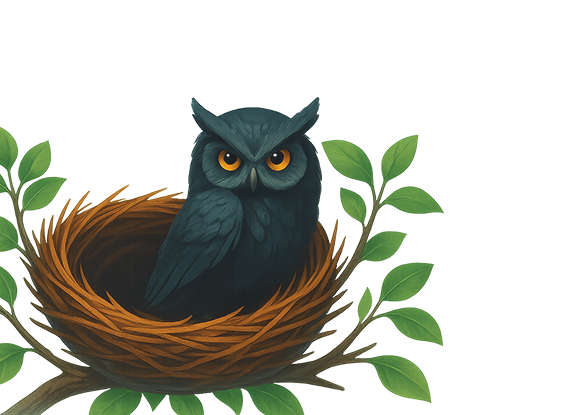
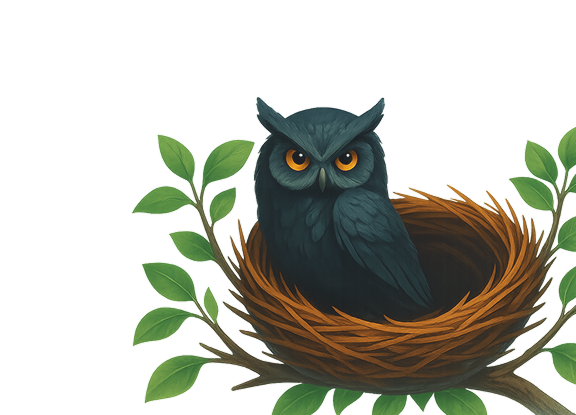
Фикс позиции иконок в TipTap Tools

diff --git a/public/partials/utility-buttons.html b/public/partials/utility-buttons.html
@@ -1,6 +1,6 @@
 <link rel="stylesheet" href="css/utility-buttons.css?v=1">
 <div id="utility-buttons-group">
-    <button id="animal-profile-btn" title="Звериный профиль"></button>
-    <button id="nightshift-toggle" title="Ночной режим"></button>
-    <button id="dev-nest-btn" href="nest/developer" title="Гнездо разработчика"></button>
-  </div>
+  <button id="animal-profile-btn" title="Звериный профиль"></button>
+  <button id="nightshift-toggle" title="Ночной режим"></button>
+  <button id="dev-nest-btn" href="nest/developer" title="Гнездо разработчика"></button>
+</div>

diff --git a/public/css/jp-window.css b/public/css/jp-window.css
@@ -4,22 +4,7 @@
   bottom: 0;
   right: 0;
   width: auto;
-  height: auto;
   max-width: none;
-  max-height: none;
-  z-index: 1000;
-  pointer-events: none; /* Allow clicks to go through */
-}
-
-/* Owl image styling */
-#owl-image {
-  position: fixed;
-  bottom: 0;
-  left: 0;
-  width: auto;
-  height: auto;
-  max-width: none;
-  max-height: none;
   z-index: 1000;
   pointer-events: none; /* Allow clicks to go through */
 }

diff --git a/public/css/nest-posts.css b/public/css/nest-posts.css
@@ -215,7 +215,6 @@ body.editor-active .nest-insert-zone {
   max-width: 100%;
   height: auto;
   border-radius: 4px;
-  margin-top: 16px;
 }
 
 .nest-post-content code,

diff --git a/public/nest/index.php b/public/nest/index.php
@@ -351,16 +351,11 @@ if ($telegramUserId && $urlUsername) {
   </aside>
 </div><!-- .page-layout -->
 <?php endif; ?>
-<button id="animal-profile-btn" class="animal-profile-trigger" title="Звериный профиль"></button>
-<button id="nightshift-toggle"></button>
 <?php if ($urlUsername !== 'developer'): ?>
-<button href="<?php echo htmlspecialchars($basePath); ?>/nest/developer" title="Гнездо разработчика">
-  <img src="<?php echo htmlspecialchars($basePath); ?>/assets/leaf.svg" alt="Developer Nest">
-</button>
 <?php endif; ?>
+
 <?php if (!$urlUsername): ?>
-<img src="assets/jp.png" id="jp-window" alt="Juni Perus Window">
-<img src="assets/owl.png" id="owl-image" alt="Owl">
+<img src="assets/owl.png" id="jp-window" alt="Owl">
 <?php endif; ?>
 
 <!-- Sort Context Menu -->
